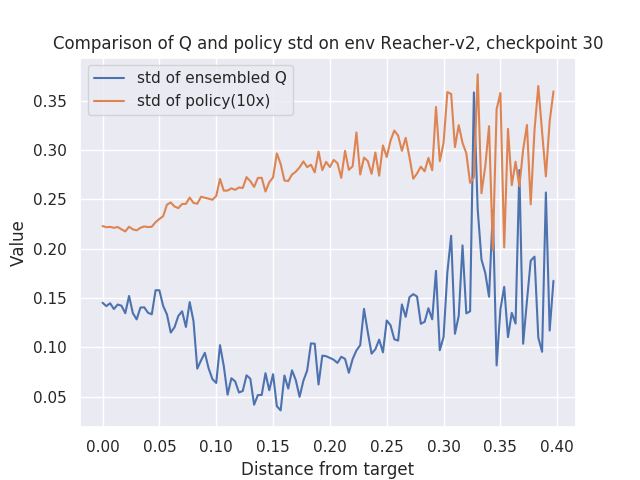
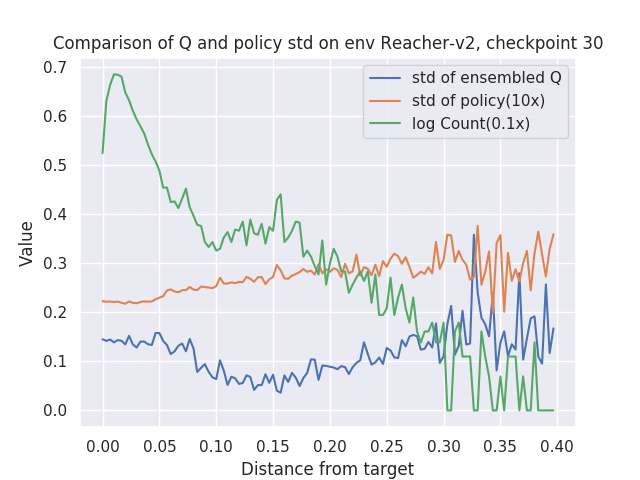
rewrite code for exploration data parsing

diff --git a/mbpo_experiment/parse.py b/mbpo_experiment/parse.py
@@ -3,9 +3,12 @@ import numpy as np
 import pandas as pd 
 import matplotlib.pyplot as plt
 import seaborn as sns
+import os
 sns.set()
 
+
 def plot(data, style = 'reacher'):
+    this_scale = scales[EXP_INDEX]
 
     df = pd.DataFrame(data['obs'])
     
@@ -34,19 +37,40 @@ def plot(data, style = 'reacher'):
     grp_df_count.to_csv("count.csv")
 
     x = np.array(list(range(len(grp_df['q_std']))))/dist_scale
-    plt.plot(x, grp_df['q_std'], label = "std of ensembled Q")
-    plt.plot(x, grp_df['pi_std'] * 10, label = "std of policy(10x)")
+    plt.plot(x, grp_df['q_std'] * this_scale["q_std"], label = "std of ensembled Q")
+    plt.plot(x, grp_df['pi_std'] * this_scale["pi_std"], label = "std of policy(10x)")
     # plt.plot(x, grp_df['pi_std'], label = "std of policy")
-    plt.plot(x, np.log(grp_df_count['dist']) * 0.1, label = "log Count(0.1x)")
+    plt.plot(x, np.log(grp_df_count['dist']) * this_scale["cnt"], label = "log Count(%.1fx)"%this_scale["cnt"])
     plt.legend()
     plt.xlabel("Distance from target")
     plt.ylabel("Value")
-    plt.title("Comparison of Q and policy std on env Reacher-v2, checkpoint 60")
+    plt.title("Comparison of Q and policy std on env Reacher-v2, checkpoint %s"%EXP_INDEX)
 
-    plt.savefig("reacher-60.png")
+    plt.savefig("plot.png")
 
-# with open("data/fetch-40.pkl", 'rb') as f:
-with open("data/reacher-60.pkl", 'rb') as f:
+EXP_NAME = "reacher"
+EXP_INDEX = "20"
+SAVE_PATH="%s-%s"%(EXP_NAME, EXP_INDEX)
+if not os.path.isdir(SAVE_PATH):
+    os.mkdir(SAVE_PATH)
+scales = {
+    "5": {
+        "q_std": 1,
+        "pi_std": 1,
+        "cnt": 0.1
+    },
+    "10": {
+        "q_std": 1,
+        "pi_std": 10,
+        "cnt": 0.1
+    },
+    "20": {
+        "q_std": 1,
+        "pi_std": 10,
+        "cnt": 0.1
+    },
+}
+with open("data/%s.pkl"%SAVE_PATH, 'rb') as f:
     data = pickle.load(f)
-
-plot(data, style='reacher')
+os.chdir(SAVE_PATH)
+plot(data, style=EXP_NAME)

diff --git a/examples/config/reacher/redq.py b/examples/config/reacher/redq.py
@@ -8,10 +8,10 @@ params = {
     'exp_name': 'defaults',
 
     'kwargs': {
-        'epoch_length': 100,
+        'epoch_length': 1000,
         'train_every_n_steps': 1,
         'actor_train_repeat': 1,
-        'critic_train_repeat': 2,
+        'critic_train_repeat': 20,
         'eval_render_mode': None,
         'eval_n_episodes': 10,
         'eval_deterministic': True,
